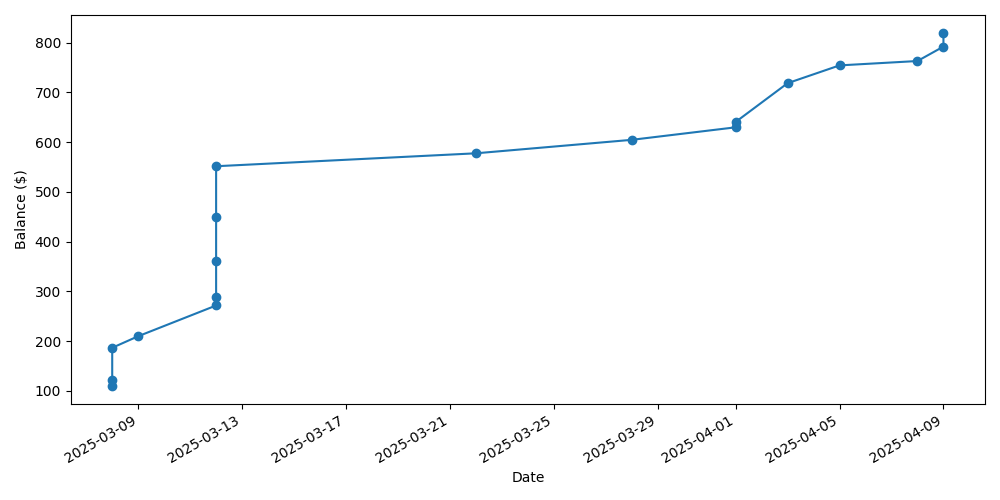
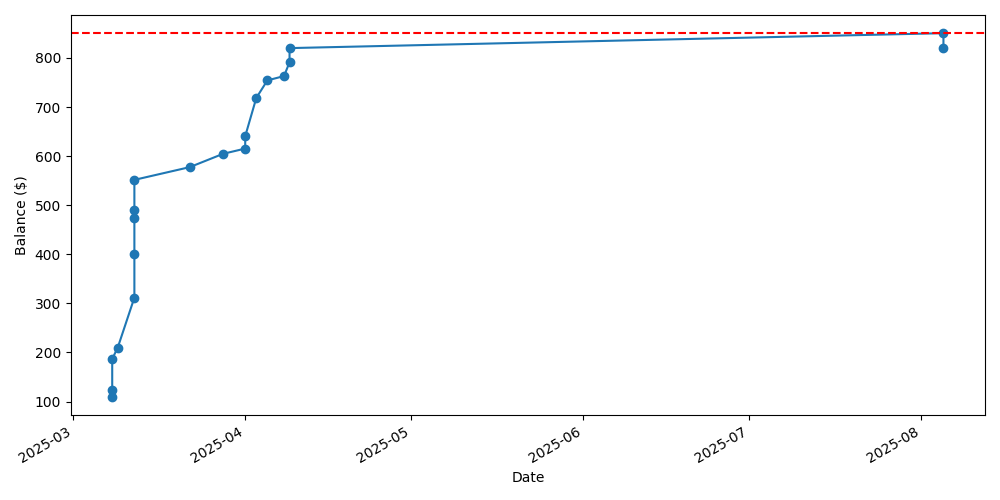
Fixed plot bug for the refunds

diff --git a/static/style.css b/static/style.css
@@ -56,6 +56,18 @@ header h1 {
     border-radius: 12px;
 }
 
+/*DIVIDER*/
+/*.content-container::after {
+    content: '';
+    display: block;
+    width: 2px;
+    background-color: #252525;
+    position: absolute;
+    top: 0;
+    bottom: 0;
+    left: 270px;
+}
+
 /*FORM CSS FOR SETTING BUDGET*/
 /*I GOT THIS WITH GOOGLE GEMINI*/
 #setting-budget form {
@@ -72,7 +84,7 @@ header h1 {
 }
 
 #setting-budget form input[type="number"] {
-    /* I had to hardcode the width, so there definetly is a better way to update this */
+    /* I had to hardcode the width */
     width: 187px;
     padding: 10px;
     border: 1px solid #ddd;
@@ -91,7 +103,11 @@ header h1 {
     border-radius: 5px;
     cursor: pointer;
     font-size: 16px;
-    margin: 0; /*
+    margin: 0; /* Reset any default margins */
+}
+
+#setting-budget form input[type="submit"]:hover {
+    background-color: #0b2b63;
 }
 
 /*FORM CSS FOR NEW TRANSACTIONS*/
@@ -102,6 +118,7 @@ header h1 {
     align-items: center; /* VERTICALLY ALIGN CENTERS OF FLEX ITEMS */
     flex-wrap: wrap; /* Allows items to wrap to the next line if space runs out */
     gap: 10px; /* 10px space between each wrapped item */
+    /* Add some padding around the form content if needed */
     padding: 10px 0;
 }
 

diff --git a/Main_File.py b/Main_File.py
@@ -90,7 +90,7 @@ class AccountManager:
         # Add a new column for the balance change for each transaction
         # Purchase amounts are positive, Refunds are negative
         plot_df['Change'] = plot_df.apply(
-            lambda row: +row['Amount'] if row['Type'] == 'Purchase' else row['Amount'],
+            lambda row: +row['Amount'] if row['Type'] == 'Purchase' else -row['Amount'],
             axis=1
         )
         #Calculate cumulative sum and add initial balance
